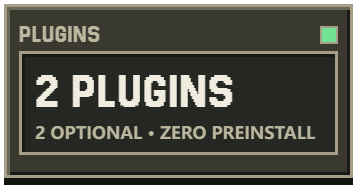
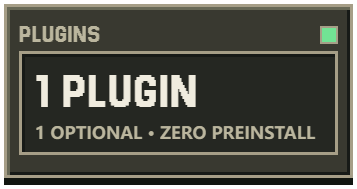
chore(release): 发布 Prismux v0.2.4-RC.1（0.2.4-rc.1）

Changed region(s): [[0.0924, 0.3968, 0.6779, 0.582], [0.0924, 0.6614, 0.1232, 0.7407]]

diff --git a/assets/readme/header.html b/assets/readme/header.html
@@ -70,7 +70,7 @@ h1{margin:0;font-size:124px;line-height:1.12;height:140px;white-space:nowrap}
 </div>
 </section>
 <section class="metrics">
-<div id="stat-version" class="metric frame"><div class="metric-head pixel">VERSION<i class="lamp"></i></div><div class="metric-value"><span class="number pixel">v0.2.3-RC.2</span><span class="metric-label" data-zh="纯本地零遥测 · WIN X64" data-en="ZERO TELEMETRY · WIN X64"></span></div></div>
+<div id="stat-version" class="metric frame"><div class="metric-head pixel">VERSION<i class="lamp"></i></div><div class="metric-value"><span class="number pixel">v0.2.4-RC.1</span><span class="metric-label" data-zh="纯本地零遥测 · WIN X64" data-en="ZERO TELEMETRY · WIN X64"></span></div></div>
 <div id="stat-visual" class="metric frame"><div class="metric-head pixel">VISUAL<i class="lamp"></i></div><div class="metric-value"><span class="number pixel">0 TOKEN</span><span class="metric-label" data-zh="8 分区液态玻璃 · 零模型开销" data-en="8-ZONE LIQUID GLASS · 0 TOKEN"></span></div></div>
 <div id="stat-memory" class="metric frame"><div class="metric-head pixel">MEMORY<i class="lamp"></i></div><div class="metric-value"><span class="number pixel">SQLITE VEC</span><span class="metric-label" data-zh="单文件 WAL + FTS5 + 物理隔离" data-en="SINGLE-FILE WAL + ISOLATION"></span></div></div>
 <div id="stat-plugins" class="metric frame"><div class="metric-head pixel">PLUGINS<i class="lamp"></i></div><div class="metric-value"><span class="number pixel">1 PLUGIN</span><span class="metric-label" data-zh="1 款官方插件 · 默认不预装" data-en="1 OPTIONAL · ZERO PREINSTALL"></span></div></div>

diff --git a/apps/daemon/src/__tests__/app-updater.test.ts b/apps/daemon/src/__tests__/app-updater.test.ts
@@ -707,7 +707,7 @@ test("AppUpdater supports Range resume, 302 redirects (max 6 hops), and customGh
   }
 });
 
-test("PrismuxDaemon integrates AppUpdater with 0.2.3-rc.2 default and exposes HTTP & RPC updater endpoints", async () => {
+test("PrismuxDaemon integrates AppUpdater with 0.2.4-rc.1 default and exposes HTTP & RPC updater endpoints", async () => {
   const dataDir = makeTempDir("prismux-daemon-updater-");
   const daemon = new PrismuxDaemon({
     headless: true,
@@ -724,7 +724,7 @@ test("PrismuxDaemon integrates AppUpdater with 0.2.3-rc.2 default and exposes HT
     });
     assert.equal(statusRes.status, 200);
     const statusJson = (await statusRes.json()) as UpdaterStatusSnapshot;
-    assert.equal(statusJson.currentVersion, "0.2.3-rc.2");
+    assert.equal(statusJson.currentVersion, "0.2.4-rc.1");
     assert.equal(statusJson.policy.routePreference, "auto");
     assert.equal(statusJson.policy.includePrerelease, true);
     assert.equal(statusJson.policy.customGhProxyPrefix, "");

diff --git a/apps/daemon/src/__tests__/daemon-media-and-api.test.ts b/apps/daemon/src/__tests__/daemon-media-and-api.test.ts
@@ -1488,13 +1488,13 @@ export function apply(ctx) {
     currentVersion: string;
     policy: { routePreference: string; includePrerelease: boolean };
   };
-  assert.equal(updaterStatus.currentVersion, "0.2.3-rc.2");
+  assert.equal(updaterStatus.currentVersion, "0.2.4-rc.1");
   assert.equal(updaterStatus.policy.routePreference, "domestic");
   assert.equal(updaterStatus.policy.includePrerelease, false);
 
   const healthCheckRes = await fetch(`${ready.httpUrl}/health`);
   assert.equal(healthCheckRes.status, 200);
-  assert.equal(((await healthCheckRes.json()) as { version: string }).version, "0.2.3-rc.2");
+  assert.equal(((await healthCheckRes.json()) as { version: string }).version, "0.2.4-rc.1");
 });
 
 test("Resilient cold-start: non-blocking T3 connect + /ws normalization + Electron protocol CORS + PRISMUX_CATALOG_PATH resolution", async () => {

diff --git a/scripts/publish-gitee-release.ts b/scripts/publish-gitee-release.ts
@@ -877,7 +877,7 @@ async function main(): Promise<void> {
 
   if (values.help || !values.dir) {
     console.log(
-      'Usage: node scripts/publish-gitee-release.ts --dir <release-dir> [--tag v0.2.3-rc.2] [--notes <md-path>] [--force] [--latest]',
+      'Usage: node scripts/publish-gitee-release.ts --dir <release-dir> [--tag v0.2.4-rc.1] [--notes <md-path>] [--force] [--latest]',
     );
     if (!values.help) {
       process.exitCode = 1;

diff --git a/plugins-official/plugin-qq/src/index.ts b/plugins-official/plugin-qq/src/index.ts
@@ -52,7 +52,7 @@ function readBundledManifestVersion(fallback: string): string {
 
 export const manifest: PluginManifest = {
   id: "qq",
-  version: readBundledManifestVersion("0.2.3-rc.2"),
+  version: readBundledManifestVersion("0.2.4-rc.1"),
   realms: ["daemon", "ui"],
   permissions: [
     "network:outbound",

diff --git a/packages/protocol/src/brand.ts b/packages/protocol/src/brand.ts
@@ -1,4 +1,4 @@
-export const DEFAULT_APP_VERSION = "0.2.3-rc.2" as const;
+export const DEFAULT_APP_VERSION = "0.2.4-rc.1" as const;
 
 export const BRAND = {
   appName: "Prismux",

diff --git a/README.en.md b/README.en.md
@@ -12,7 +12,7 @@
 </picture>
 
 <p>
-  <a href="https://github.com/Fish-under-sea/Prismux/releases/tag/v0.2.3-rc.2"><picture><source media="(prefers-color-scheme: dark)" srcset="assets/readme/stat-version-en-dark.png"><img src="assets/readme/stat-version-en-light.png" alt="VERSION: v0.2.3-RC.2 (Zero Telemetry · Win x64)" width="23%"></picture></a>
+  <a href="https://github.com/Fish-under-sea/Prismux/releases/tag/v0.2.4-rc.1"><picture><source media="(prefers-color-scheme: dark)" srcset="assets/readme/stat-version-en-dark.png"><img src="assets/readme/stat-version-en-light.png" alt="VERSION: v0.2.4-RC.1 (Zero Telemetry · Win x64)" width="23%"></picture></a>
   <a href="#preview"><picture><source media="(prefers-color-scheme: dark)" srcset="assets/readme/stat-visual-en-dark.png"><img src="assets/readme/stat-visual-en-light.png" alt="VISUAL: 0 TOKEN (8-Zone Liquid Glass)" width="23%"></picture></a>
   <a href="#features"><picture><source media="(prefers-color-scheme: dark)" srcset="assets/readme/stat-memory-en-dark.png"><img src="assets/readme/stat-memory-en-light.png" alt="MEMORY: SQLITE VEC (Single-File Isolation)" width="23%"></picture></a>
   <a href="#plugins"><picture><source media="(prefers-color-scheme: dark)" srcset="assets/readme/stat-plugins-en-dark.png"><img src="assets/readme/stat-plugins-en-light.png" alt="PLUGINS: 1 PLUGIN (Zero Preinstall)" width="23%"></picture></a>
@@ -24,23 +24,23 @@
   <img src="https://img.shields.io/badge/React-19-8fd6a0?style=flat-square&amp;logo=react&amp;logoColor=white&amp;labelColor=5a544a" alt="React 19">
   <img src="https://img.shields.io/badge/Node.js-%3E%3D24.12-8fd6a0?style=flat-square&amp;logo=nodedotjs&amp;logoColor=white&amp;labelColor=5a544a" alt="Node.js >= 24.12">
   <img src="https://img.shields.io/badge/License-MIT-8fd6a0?style=flat-square&amp;labelColor=5a544a" alt="License MIT">
-  <img src="https://img.shields.io/badge/Release-v0.2.3--RC.2-f08a5d?style=flat-square&amp;labelColor=5a544a" alt="Release Prismux v0.2.3-RC.2">
+  <img src="https://img.shields.io/badge/Release-v0.2.4--RC.1-f08a5d?style=flat-square&amp;labelColor=5a544a" alt="Release Prismux v0.2.4-RC.1">
 </p>
 
 <p><strong>Prismux · Local-First, Zero-Telemetry 8-Zone Liquid-Glass AI Super Workbench &amp; 24/7 Secretary</strong><br>
-Built on a unified first-party <strong><code>@prismux/*</code> Monorepo (Electron 44 + Effect + TypeScript + React 19)</strong>, Prismux commands native-CLI-identity Claude Code, Codex, Antigravity, cross-drive auto-discovered native <code>dsh</code> (DeepSeek Harness), <code>Pi</code>, and OpenCode from one calm window—uniting <strong>end-to-end Overnight Factory scheduling, live mail liveness probing &amp; real execution receipts</strong>, <strong>30-minute Today Token auto-refresh with concurrent singleflight/SWR quota acceleration</strong>, <strong>Codex→DSH cross-agent delegation with true vendor subagent icons</strong>, <strong>isolated split-pane threads/models with per-pane Overview</strong>, 6 poetic liquid-glass theme substrates, WizTree-style Performance &amp; Storage dashboard with C-drive guardrails, 8× faster Rust telemetry, and single-file SQLite hybrid memory.<br>
-Zero silent telemetry out of the box, pure QR remote pairing (zero cloud accounts), and strictly zero-preinstall plugins—your workspace, your privacy, your rules.</p>
+Built on a unified first-party <strong><code>@prismux/*</code> Monorepo (Electron 44 + Effect + TypeScript + React 19)</strong>, Prismux commands native-CLI-identity Claude Code, Codex, Antigravity, cross-drive auto-discovered native <code>dsh</code> (DeepSeek Harness), <code>Pi</code>, and OpenCode from one calm window—uniting <strong>1:1 DSH NEXT work steps with all-6-agent read-only <code>context_injection</code> / <code>skill_load</code> &amp; per-turn usage popover</strong>, <strong>1:1 AGY Swarm &amp; ACP unified 4-tab right sidebar with live <code>/swarm</code> SSE &amp; Hybrid absorption</strong>, <strong>compact top-right Composer "Invite Collab" multi-agent picker &amp; inline slash-command chips</strong>, <strong>full De-T3 sweep &amp; on-demand prompt slimming (-92% delegated DSH / -58.4% ACP)</strong>, <strong>24-item zero-telemetry, privacy &amp; supply-chain compliance hardening</strong>, 6 poetic liquid-glass theme substrates, WizTree-style Performance &amp; Storage dashboard, and single-file SQLite hybrid memory.<br>
+Zero cold-start outbound calls, zero silent telemetry out of the box, pure QR remote pairing (zero cloud accounts), and strictly zero-preinstall plugins (sole active plugin: <code>qq</code>)—your workspace, your privacy, your rules.</p>
 
 <p>
   <a href="#install"><picture><source media="(prefers-color-scheme: dark)" srcset="assets/readme/key-download-en-dark.png"><img src="assets/readme/key-download-en-light.png" alt="Downloads" height="40"></picture></a>
-  <a href="https://github.com/Fish-under-sea/Prismux/releases/tag/v0.2.3-rc.2"><picture><source media="(prefers-color-scheme: dark)" srcset="assets/readme/key-release-en-dark.png"><img src="assets/readme/key-release-en-light.png" alt="Changelog" height="40"></picture></a>
+  <a href="https://github.com/Fish-under-sea/Prismux/releases/tag/v0.2.4-rc.1"><picture><source media="(prefers-color-scheme: dark)" srcset="assets/readme/key-release-en-dark.png"><img src="assets/readme/key-release-en-light.png" alt="Changelog" height="40"></picture></a>
   <a href="https://github.com/Fish-under-sea/Prismux/issues"><picture><source media="(prefers-color-scheme: dark)" srcset="assets/readme/key-issues-en-dark.png"><img src="assets/readme/key-issues-en-light.png" alt="Issues" height="40"></picture></a>
 </p>
 
 <br>
 
 <p>
-  <img src="assets/readme/hero-demo-v02.gif" width="100%" alt="Prismux v0.2.3-RC.2 8-second live Electron 44 GPU demo: live 8-zone Liquid Glass refraction, Codex running-chibi 7-level reasoning effort slider &amp; Fast/Ultra Fast toggles, 2×2 Orca Split Anything, and 24-hour dynamic sky transition">
+  <img src="assets/readme/hero-demo-v02.gif" width="100%" alt="Prismux v0.2.4-RC.1 8-second live Electron 44 GPU demo: live 8-zone Liquid Glass refraction, Codex running-chibi 7-level reasoning effort slider &amp; Fast/Ultra Fast toggles, 2×2 Orca Split Anything, and 24-hour dynamic sky transition">
   <br>
   <sub><strong>8-Second Live Electron 44 GPU Capture</strong> (<a href="assets/readme/hero-demo-v02.webp">View crisp 1200×750 16 FPS Animated WebP</a>): (1) Open the right wallpaper drawer to adjust <strong>8-Zone Liquid Glass</strong> refraction live over an animated wallpaper; (2) Sweep the Codex <strong><code>dsh-fish</code> running-chibi 7-level effort slider</strong> (<code>Mini → Ultra</code>) and toggle <code>Fast / Ultra Fast</code>; (3) Launch a <strong>2×2 Orca Split Anything</strong> grid (zero interior corner radius, crisp <code>1px</code> dividers) with the <strong>24-hour living sky</strong> shifting smoothly from noon to starry night.</sub>
 </p>
@@ -58,13 +58,14 @@ Zero silent telemetry out of the box, pure QR remote pairing (zero cloud account
 - **Single-File Hybrid Memory, Sidebar Overnight Factory & Zero-Preinstall Plugins**: Store all durable memories in `~/.prismux/data/memory.db` (SQLite WAL + FTS5 + `sqlite-vec`) with transport-level group-chat isolation; access `Overnight Factory & Mail` right from the main sidebar with one-click toggle; install the standalone `qq` plugin strictly on demand (zero preinstall, leak-free teardown) alongside Argon2id + AEAD E2EE sync and concurrent GitHub / Gitee updates.
 
 > [!TIP]
-> **What's New in `Prismux v0.2.3-RC.2`**
-> - **Residual `T3` Badges Replaced with `Ciallo～(∠・ω< )⌒★`**: Replaces remaining legacy `T3` identifiers across tool-call cards and lifecycle views with `Ciallo～(∠・ω< )⌒★` for clean brand consistency.
-> - **True Vendor Brand Icons for Delegated Subagents**: Fixes gray `[AR]` fallback boxes on secondary sidebar delegated subagents by forwarding recognizable `selectedModel.name` for opaque `modelSlug`s, rendering the DeepSeek whale and official vendor logos accurately.
-> - **Overnight Factory Mail Check Fix, Live Liveness Sync & Full End-to-End Execution Loop**: Fixes outbound email check failures across `agent_mail` / `imap_smtp` / `gmail_oauth2`, adds live status probing with automatic "Configured" state refresh on window focus, and ships full end-to-end scheduled polling, task queue, real executor, and email receipts (preserving the hard block on unattended personal AGY).
-> - **30-Min Today Token Auto-Refresh, First-Click Instant Hot-Reload & Concurrent/SWR Quota Acceleration**: Fixes Today Token auto-refresh to a steady 30-minute cadence, ensures the first click on Refresh updates live immediately, and accelerates quota lookups with full concurrency, singleflight deduplication, and SWR background revalidation.
+> **What's New in `Prismux v0.2.4-RC.1`**
+> - **1:1 DSH NEXT Work Steps, All-6-Agent Read-Only `context_injection` &amp; `skill_load` + Per-Turn Usage Popover**: Delivers 1:1 DSH NEXT work-step convergence and detail cards, read-only `context_injection` and `skill_load` (with DSH skill fidelity) across all 6 agents, rich Markdown rendering, per-turn usage popovers (including `Pi` per-turn usage), and dynamic WCAG ≥ 4.5:1 accent contrast adaptation.
+> - **1:1 AGY Swarm &amp; ACP Unified 4-Tab Right Sidebar + Live `/swarm` SSE**: Unifies AGY Swarm and ACP collaboration into a 1:1 4-tab right sidebar with live `/swarm` SSE detection, Hybrid Swarm/ACP absorption, and 100% native Chinese/English i18n.
+> - **Compact Top-Right Composer "Invite Collab" Picker &amp; Inline Slash-Command Visual Chips**: Adds a compact multi-agent / model / count collaboration picker in the top-right Composer corner (governed by the unified subscription risk waiver and strictly 0-Token when idle) alongside inline slash-command visual chips (`[⏱ goal]`, `[🐝 swarm]`).
+> - **Full De-T3 Sweep, On-Demand Prompt Slimming &amp; `fishdock-hook` Retirement**: Purges remaining legacy T3 identifiers across MCP, native binaries, and scripts; slims on-demand prompt injection by **-92%** on delegated DSH and **-58.4%** on ACP; and formally retires `fishdock-hook` (leaving `qq` as the sole active official plugin).
+> - **24-Item Zero-Telemetry, Privacy, Security &amp; Supply-Chain Compliance Hardening**: Enforces 0 cold-start outbound requests (reasoning translation and auto-update checks default OFF), excises `heic-to` / `electron-updater` / `browser-secret` / T3 cloud / Bing translation endpoints, adds pre-extract per-volume `.7z.001..N` SHA-256 verification, and pins all GitHub Actions to 40-char commit SHAs.
 
[2 lines of base64/hex data omitted]
 
 <h2 id="preview"><picture><source media="(prefers-color-scheme: dark)" srcset="assets/readme/section-preview-en-dark.png"><img src="assets/readme/section-preview-en-light.png" alt="PREVIEW · Visual Preview" width="100%"></picture></h2>
 
@@ -160,13 +161,13 @@ The current release is **`Prismux v0.2.3-RC.2`** (tag `v0.2.3-rc.2`), shipping `
 <h2 id="plugins"><picture><source media="(prefers-color-scheme: dark)" srcset="assets/readme/section-plugins-en-dark.png"><img src="assets/readme/section-plugins-en-light.png" alt="PLUGINS · Optional Plugins" width="100%"></picture></h2>
 
 > [!NOTE]
-> **One Active Official Plugin (`qq`) — Strictly Never Preinstalled**: Neither `Prismux-Setup-0.2.3-rc.2-win-x64.exe` nor the unpacked desktop bundle contains any directory from `plugins-official/` (verified at 0 hits across the packaged tree). The active official plugin (`qq`) ships independently as a verified `.wb-plugin` archive (indexed by `prismux-plugins-official.json` and `prismux-plugins-0.2.3-rc.2-SHA256SUMS.txt`) and a script-free npm single package, installing strictly on demand with `ctx.effect()` zero-leak teardown.
+> **One Active Official Plugin (`qq`) — Strictly Never Preinstalled**: Neither `Prismux-Setup-0.2.4-rc.1-win-x64.exe` nor the unpacked desktop bundle contains any directory from `plugins-official/` (verified at 0 hits across the packaged tree). The active official plugin (`qq`) ships independently as a verified `.wb-plugin` archive (indexed by `prismux-plugins-official.json` and `prismux-plugins-0.2.4-rc.1-SHA256SUMS.txt`) and a script-free npm single package, installing strictly on demand with `ctx.effect()` zero-leak teardown.
 >
 > **Retired Plugins Notice**: `pet` (`@prismux/plugin-pet`) and `ssh` (`@prismux/plugin-ssh`) have been retired (replaced by Prismux built-in capabilities), and `fishdock-hook` (`@prismux/plugin-fishdock-hook`) has been retired and removed from the official catalog and release pipeline.
 
 | Plugin ID | Archive (`.wb-plugin`) | npm Package (Unscoped / GitHub Packages) | Realms | Capabilities &amp; Isolation |
 | :--- | :--- | :--- | :--- | :--- |
[2 lines of base64/hex data omitted]
 
 ### Plugin Authoring &amp; Official Documentation
 
@@ -181,31 +182,31 @@ Building a custom Prismux plugin or delegating it to a Coding Agent? Follow the 
 
 | Channel | Best For | Release &amp; Download Details |
 | :--- | :--- | :--- |
-| **GitHub Releases** (Global) | Direct global network / GitHub CLI environments | [Prismux v0.2.3-RC.2 Release](https://github.com/Fish-under-sea/Prismux/releases/tag/v0.2.3-rc.2) · [Direct `Prismux-Setup-0.2.3-rc.2-win-x64.exe`](https://github.com/Fish-under-sea/Prismux/releases/download/v0.2.3-rc.2/Prismux-Setup-0.2.3-rc.2-win-x64.exe) |
-| **Gitee Releases** (Mainland China Mirror) | High-speed direct downloads inside mainland China | [Prismux v0.2.3-RC.2 Release](https://gitee.com/Fish-under-sea/Prismux/releases/tag/v0.2.3-rc.2) (includes `80 MB` split `.7z` volumes, consolidated checksums, and active official plugin archives) |
-| **In-App Update Center** (Recommended) | Concurrent latency probing, weighted split progress &amp; mandatory SHA-256 verification | Open **Settings → About &amp; Updates** (`/settings/about#prismux-updates`) to switch between `Auto / Domestic First / Global First`, browse rich release notes, and install with one click |
+| **GitHub Releases** (Global) | Direct global network / GitHub CLI environments | [Prismux v0.2.4-RC.1 Release](https://github.com/Fish-under-sea/Prismux/releases/tag/v0.2.4-rc.1) · [Direct `Prismux-Setup-0.2.4-rc.1-win-x64.exe`](https://github.com/Fish-under-sea/Prismux/releases/download/v0.2.4-rc.1/Prismux-Setup-0.2.4-rc.1-win-x64.exe) |
+| **Gitee Releases** (Mainland China Mirror) | High-speed direct downloads inside mainland China | [Prismux v0.2.4-RC.1 Release](https://gitee.com/Fish-under-sea/Prismux/releases/tag/v0.2.4-rc.1) (includes `80 MB` split `.7z` volumes, per-volume consolidated checksums, and active official plugin archives) |
+| **In-App Update Center** (Recommended) | Concurrent latency probing, weighted split progress &amp; mandatory pre-extract SHA-256 verification | Open **Settings → About &amp; Updates** (`/settings/about#prismux-updates`) to switch between `Auto / Domestic First / Global First`, browse rich release notes, and install with one click |
 
 ### Platform Downloads &amp; Integrity Verification
 
 | Platform / Release Asset | Filename / Availability | Details &amp; Isolation |
 | :--- | :--- | :--- |
[2 lines of base64/hex data omitted]
 | **macOS (Apple Silicon / Intel)** | `Coming soon (Channel reserved)` | Planned `.dmg` builds will follow the exact same `0-Token` visual separation and `~/.prismux/` isolation guarantees |
 | **Linux (x86_64 / arm64)** | `Coming soon (Channel reserved)` | Planned `.AppImage` / `.deb` packages will support dual-route updates and verified on-demand plugin import |
-| **1 Active Official Plugin Archive** | `prismux-plugin-qq-0.2.3-rc.2.wb-plugin` &amp; `prismux-plugins-official.json` | Deterministic ustar + gzip bundle for on-demand verified import via `/settings/plugins` (`pet`, `ssh` &amp; `fishdock-hook` retired and removed) |
-| **Consolidated Checksums** | `Prismux-0.2.3-rc.2-SHA256SUMS.txt` &amp; `prismux-plugins-0.2.3-rc.2-SHA256SUMS.txt` | Verify manual downloads with `Get-FileHash Prismux-Setup-0.2.3-rc.2-win-x64.exe -Algorithm SHA256` or `7z t` |
+| **1 Active Official Plugin Archive** | `prismux-plugin-qq-0.2.4-rc.1.wb-plugin` &amp; `prismux-plugins-official.json` | Deterministic ustar + gzip bundle for on-demand verified import via `/settings/plugins` (`pet`, `ssh` &amp; `fishdock-hook` retired and removed) |
+| **Consolidated Checksums** | `Prismux-0.2.4-rc.1-SHA256SUMS.txt` &amp; `prismux-plugins-0.2.4-rc.1-SHA256SUMS.txt` | Verify manual downloads with `Get-FileHash Prismux-Setup-0.2.4-rc.1-win-x64.exe -Algorithm SHA256` or `7z t` (Gitee includes per-volume `.7z.001..003` hashes) |
 
 <h2 id="packages"><picture><source media="(prefers-color-scheme: dark)" srcset="assets/readme/section-packages-en-dark.png"><img src="assets/readme/section-packages-en-light.png" alt="PACKAGES · npm &amp; Mirrors" width="100%"></picture></h2>
 
-The active official plugin (`qq`) is also published as a **script-free (`preinstall / install / postinstall` disabled)** standalone npm package bundling its SHA-256-verified `prismux-plugin-qq-0.2.3-rc.2.wb-plugin` archive and an overwrite-safe export CLI (`prismux-plugin-qq`). Inside the Plugin Center, community and official tarballs stream directly over HTTPS with automatic failover between **`registry.npmjs.org` ↔ `registry.npmmirror.com`** and zero local `git` invocation.
+The active official plugin (`qq`) is also published as a **script-free (`preinstall / install / postinstall` disabled)** standalone npm package bundling its SHA-256-verified `prismux-plugin-qq-0.2.4-rc.1.wb-plugin` archive and an overwrite-safe export CLI (`prismux-plugin-qq`). Inside the Plugin Center, community and official tarballs stream directly over HTTPS with automatic failover between **`registry.npmjs.org` ↔ `registry.npmmirror.com`** and zero local `git` invocation.
 
 ```powershell
 # 1. Install and extract a verified .wb-plugin archive from npmjs
-npm install prismux-plugin-qq@0.2.3-rc.2
+npm install prismux-plugin-qq@0.2.4-rc.1
 npx prismux-plugin-qq --out ./plugins-stage
 
 # 2. Use the npmmirror domestic registry in mainland China
-npm install prismux-plugin-qq@0.2.3-rc.2 --registry=https://registry.npmmirror.com
+npm install prismux-plugin-qq@0.2.4-rc.1 --registry=https://registry.npmmirror.com
 npx prismux-plugin-qq --out ./plugins-stage
 ```
 
@@ -247,7 +248,7 @@ prismux/
 ├── THIRD_PARTY_NOTICES.md               # Third-party open-source licenses & historical attributions
 ├── README.md / README.en.md             # Bilingual project homepages (with 8s live GPU demo)
 ├── pnpm-workspace.yaml                  # Unified workspace allowlist (apps/*, packages/*, plugins-official/plugin-*, oxlint-plugin-prismux, scripts)
-├── package.json                         # Root orchestration scripts (0.2.3-rc.2)
+├── package.json                         # Root orchestration scripts (0.2.4-rc.1)
 ├── tsconfig.base.json                   # Strict TS 5.8+ baseline for daemon & core packages (ES2024 + NodeNext)
 ├── tsconfig.core.json / vite.config.ts  # Unified Vite+ (vp) build, lint, format & test config
 ├── assets/
@@ -300,7 +301,7 @@ prismux/
 </details>
 
 <details>
-<summary><strong>Expand: M1–M5 &amp; v0.1.0–v0.2.3-RC.2 Evolution Milestones</strong></summary>
+<summary><strong>Expand: M1–M5 &amp; v0.1.0–v0.2.4-RC.1 Evolution Milestones</strong></summary>
 
 | Milestone | Scope Delivered | Status |
 | :--- | :--- | :--- |
@@ -319,6 +320,7 @@ prismux/
 | **v0.2.2-RC.2** | **Daemon/server/web polling-storm &amp; Windows drive/WMI probe elimination (10m/5m TTL caches + split `PrismuxTelemetryContext` + stabilized callbacks)**, **wallpaper freeze fix &amp; default-OFF opt-in Advanced Wallpaper Engine safety gate (smooth first-boot migration for existing Web/Scene users + async single-flight scans + virtualized grid + streaming-safe `shellCutout`)**, **DSH `[Local Stats]` usage deduplication &amp; multi-core usage scanning**, **8× faster Rust Windows sampling (~4 ms) + Win32 `GetSystemPowerStatus` FFI host hardware/power telemetry + 9-in-1 Electron preload bootstrap**, **Performance &amp; Storage overhaul (6-card footprint overview + symmetric Host &amp; Sampling + WizTree-style Squarified Treemap drilldown &amp; tiered safe cleanup)**, **end-to-end C-drive &amp; memory auto-quota guardrails (256 MiB disk cache cap, SQLite 64 MiB WAL + incremental `auto_vacuum`, dead PTY eviction, stale installer/worktree sweep) &amp; zero-telemetry cleanup** | Complete &amp; Verified |
 | **v0.2.3-RC.1** | **5s auth-storm, Settings freeze &amp; full-stack 15 memory-leak elimination (signed `access_token` exchange + 401/403/426 breaker, decoupled modal close races, router structural sharing, rAF sidebar measurement, BrowserWindow / WebWallGL / recording Blob / 6 Atom collection leak fixes)**, **liquid-glass test-tube context breakdown popover, color-tiered capsules, streamlined Token popover &amp; DSH TPS micro-burst / partial multi-step `decodeMs` fix (with frontend self-healing)**, **Codex→DSH 4-tier alias cross-agent delegation + unified AGY / `subscription_oauth` guardrails (`DelegationSubscriptionGuard`), active AGY composer 40% open-gap flowing RGB rim &amp; secondary sidebar MCP delegated subagent file tree**, **strict split-pane thread/model isolation, per-pane Overview overlay &amp; unified synced right sidebar**, **inline brand-menu update check animation &amp; direct bottom-right update card** | Complete &amp; Verified |
 | **v0.2.3-RC.2** | **Residual `T3` identifiers across tool calls and lifecycle views replaced with `Ciallo～(∠・ω< )⌒★`**, **secondary sidebar delegated subagent gray `[AR]` boxes fixed to render DeepSeek whale and official vendor logos (including `selectedModel.name` fallback for opaque `modelSlug`s)**, **outbound email check failures across `agent_mail` / `imap_smtp` / `gmail_oauth2` resolved with live probing, window-focus auto-"Configured" UX, and full end-to-end Overnight Factory polling, task queue, real executor, and email receipts (hard-blocking unattended personal AGY)**, **30-minute Today Token auto-refresh, first-click instant hot-reload on Refresh, and full concurrency / singleflight / SWR quota acceleration** | Complete &amp; Verified |
+| **v0.2.4-RC.1** | **1:1 DSH NEXT work-step convergence &amp; detail cards + all-6-agent read-only `context_injection` &amp; `skill_load` (DSH skill fidelity) + rich Markdown, per-turn usage popover (`Pi` included) &amp; dynamic WCAG ≥ 4.5:1 accent**, **1:1 AGY Swarm &amp; ACP unified 4-tab right sidebar + live `/swarm` SSE detection + Hybrid Swarm/ACP absorption + 100% native Chinese/English i18n**, **compact top-right Composer "Invite Collab" multi-agent/model/count picker (subscription-waiver governed, 0-Token idle) + inline slash-command visual chips (`[⏱ goal]`, `[🐝 swarm]`)**, **full De-T3 sweep + on-demand prompt slimming (-92% delegated DSH / -58.4% ACP) + `fishdock-hook` retirement (only `qq` active)**, **24-item zero-telemetry, privacy, security &amp; supply-chain compliance hardening (0 cold-start outbound calls, `heic-to` / `electron-updater` / `browser-secret` / T3 cloud / Bing translation excised, pre-extract `.7z.001..N` per-volume SHA-256 verification &amp; GitHub Actions 40-char SHA pinning)** | Complete &amp; Verified |
 
 </details>
 
@@ -351,4 +353,4 @@ prismux/
 
 Prismux core source code and README layout tooling are licensed under the **MIT License** (see [`LICENSE`](LICENSE)); the bundled pixel font `Jersey20-Regular.ttf` is licensed under [SIL Open Font License 1.1](assets/readme/OFL-Jersey20.txt); all third-party libraries and historical open-source attributions are preserved in [`THIRD_PARTY_NOTICES.md`](THIRD_PARTY_NOTICES.md).
 
-<p align="center"><sub>Prismux v0.2.3-RC.2 · Electron 44 + TypeScript + React 19 · Local-First Zero Telemetry · 8-Zone Liquid Glass · Orca Split Anything · 1 Optional Official Plugin</sub></p>
+<p align="center"><sub>Prismux v0.2.4-RC.1 · Electron 44 + TypeScript + React 19 · Local-First Zero Telemetry · 8-Zone Liquid Glass · Orca Split Anything · 1 Optional Official Plugin</sub></p>

diff --git a/README.md b/README.md
@@ -12,7 +12,7 @@
 </picture>
 
 <p>
-  <a href="https://github.com/Fish-under-sea/Prismux/releases/tag/v0.2.3-rc.2"><picture><source media="(prefers-color-scheme: dark)" srcset="assets/readme/stat-version-zh-dark.png"><img src="assets/readme/stat-version-zh-light.png" alt="VERSION：v0.2.3-RC.2（纯本地零遥测 · Win x64）" width="23%"></picture></a>
+  <a href="https://github.com/Fish-under-sea/Prismux/releases/tag/v0.2.4-rc.1"><picture><source media="(prefers-color-scheme: dark)" srcset="assets/readme/stat-version-zh-dark.png"><img src="assets/readme/stat-version-zh-light.png" alt="VERSION：v0.2.4-RC.1（纯本地零遥测 · Win x64）" width="23%"></picture></a>
   <a href="#preview"><picture><source media="(prefers-color-scheme: dark)" srcset="assets/readme/stat-visual-zh-dark.png"><img src="assets/readme/stat-visual-zh-light.png" alt="VISUAL：0 TOKEN（8 分区液态玻璃）" width="23%"></picture></a>
   <a href="#features"><picture><source media="(prefers-color-scheme: dark)" srcset="assets/readme/stat-memory-zh-dark.png"><img src="assets/readme/stat-memory-zh-light.png" alt="MEMORY：SQLITE VEC（单文件物理隔离）" width="23%"></picture></a>
   <a href="#plugins"><picture><source media="(prefers-color-scheme: dark)" srcset="assets/readme/stat-plugins-zh-dark.png"><img src="assets/readme/stat-plugins-zh-light.png" alt="PLUGINS：1 PLUGIN（默认不预装）" width="23%"></picture></a>
@@ -24,23 +24,23 @@
   <img src="https://img.shields.io/badge/React-19-8fd6a0?style=flat-square&amp;logo=react&amp;logoColor=white&amp;labelColor=5a544a" alt="React 19">
   <img src="https://img.shields.io/badge/Node.js-%3E%3D24.12-8fd6a0?style=flat-square&amp;logo=nodedotjs&amp;logoColor=white&amp;labelColor=5a544a" alt="Node.js >= 24.12">
   <img src="https://img.shields.io/badge/License-MIT-8fd6a0?style=flat-square&amp;labelColor=5a544a" alt="License MIT">
-  <img src="https://img.shields.io/badge/Release-v0.2.3--RC.2-f08a5d?style=flat-square&amp;labelColor=5a544a" alt="Release Prismux v0.2.3-RC.2">
+  <img src="https://img.shields.io/badge/Release-v0.2.4--RC.1-f08a5d?style=flat-square&amp;labelColor=5a544a" alt="Release Prismux v0.2.4-RC.1">
 </p>
 
 <p><strong>Prismux · 纯本地零遥测的 8 分区液态玻璃 AI 超级工作台与 24 小时常驻秘书</strong><br>
-基于统一第一方 <strong><code>@prismux/*</code> Monorepo（Electron 44 + Effect + TypeScript + React 19）</strong>，在一个桌面窗口里统一驾驭原生 CLI 身份的 Claude Code、Codex、Antigravity、跨盘自动发现的 <code>dsh</code>（DeepSeek Harness）、<code>Pi</code> 与 OpenCode；集 <strong>全链路夜间工场定时轮询与邮件回执（实时探活与自动就绪状态）</strong>、<strong>30 分钟今日用量自动刷新与并发/SWR 极速配额查询</strong>、<strong>Codex→DSH 跨代理多 Agent 调度与真实厂商子代理图标</strong>、<strong>分屏线程/模型彻底隔离与每屏专属概览</strong>、6 款诗意液态玻璃主题基底、类 WizTree 性能与存储面板 + C 盘自动配额护栏、8× 提速 Rust 硬件监控及单文件 SQLite 混合记忆于一身。<br>
-默认全栈零遥测、纯本地扫码远控（零云端账号绑定）、官方插件严格按需零预装——把效率、质感与隐私控制权完完整整还给你。</p>
+基于统一第一方 <strong><code>@prismux/*</code> Monorepo（Electron 44 + Effect + TypeScript + React 19）</strong>，在一个桌面窗口里统一驾驭原生 CLI 身份的 Claude Code、Codex、Antigravity、跨盘自动发现的 <code>dsh</code>（DeepSeek Harness）、<code>Pi</code> 与 OpenCode；集 <strong>1:1 DSH NEXT 工作步骤与全 6 家只读上下文注入 / 技能加载 + 本轮用量浮层</strong>、<strong>1:1 AGY 蜂群与 ACP 统一四标签右侧栏（实时 <code>/swarm</code> SSE + 混合吸收）</strong>、<strong>输入框右上角「邀请协作」多代理选择器与内联斜杠视觉芯片</strong>、<strong>全栈去 T3 与按需精简提示词（委派 DSH -92% / ACP -58.4%）</strong>、<strong>24 项零遥测隐私与供应链合规加固</strong>、6 款诗意液态玻璃主题基底、类 WizTree 性能与存储面板及单文件 SQLite 混合记忆于一身。<br>
+默认全栈零冷启动外联、零遥测、纯本地扫码远控（零云端账号绑定）、官方插件严格按需零预装（仅保留 <code>qq</code>）——把效率、质感与隐私控制权完完整整还给你。</p>
 
 <p>
   <a href="#install"><picture><source media="(prefers-color-scheme: dark)" srcset="assets/readme/key-download-zh-dark.png"><img src="assets/readme/key-download-zh-light.png" alt="下载 / Releases" height="40"></picture></a>
-  <a href="https://github.com/Fish-under-sea/Prismux/releases/tag/v0.2.3-rc.2"><picture><source media="(prefers-color-scheme: dark)" srcset="assets/readme/key-release-zh-dark.png"><img src="assets/readme/key-release-zh-light.png" alt="更新记录" height="40"></picture></a>
+  <a href="https://github.com/Fish-under-sea/Prismux/releases/tag/v0.2.4-rc.1"><picture><source media="(prefers-color-scheme: dark)" srcset="assets/readme/key-release-zh-dark.png"><img src="assets/readme/key-release-zh-light.png" alt="更新记录" height="40"></picture></a>
   <a href="https://github.com/Fish-under-sea/Prismux/issues"><picture><source media="(prefers-color-scheme: dark)" srcset="assets/readme/key-issues-zh-dark.png"><img src="assets/readme/key-issues-zh-light.png" alt="反馈 / Issues" height="40"></picture></a>
 </p>
 
 <br>
 
 <p>
-  <img src="assets/readme/hero-demo-v02.gif" width="100%" alt="Prismux v0.2.3-RC.2 8 秒实机 GPU 动态演示：8 分区液态玻璃实时折射、Codex 奔跑小人 7 档推理滑条与 Fast/Ultra Fast 切换、2×2 Orca 任意分屏与 24h 动态天穹昼夜渐变">
+  <img src="assets/readme/hero-demo-v02.gif" width="100%" alt="Prismux v0.2.4-RC.1 8 秒实机 GPU 动态演示：8 分区液态玻璃实时折射、Codex 奔跑小人 7 档推理滑条与 Fast/Ultra Fast 切换、2×2 Orca 任意分屏与 24h 动态天穹昼夜渐变">
   <br>
   <sub><strong>8 秒实机 Electron 44 GPU 动态实录</strong>（<a href="assets/readme/hero-demo-v02.webp">查看 1200×750 16 FPS 高清 Animated WebP</a>）：① 右侧壁纸抽屉实时调节 <strong>8 分区液态玻璃</strong> 折射通透度；② Codex 模型选择器滑动 <strong><code>dsh-fish</code> 奔跑小人 7 档推理强度条</strong>（<code>Mini → Ultra</code>）并秒切 <code>Fast / Ultra Fast</code>；③ 一键展开 <strong>2×2 Orca 全要素任意分屏</strong>（内部零圆角、<code>1 px</code> 细线）与 <strong>24 小时动态天穹</strong> 昼夜平滑演化。</sub>
 </p>
@@ -58,13 +58,14 @@
 - **单文件混合记忆、夜间全自动工场与零预装插件生态**：全部记忆收敛于单文件 `~/.prismux/data/memory.db`（SQLite WAL + FTS5 + `sqlite-vec`）并由传输层物理隔离群聊作用域；`夜间工场与邮箱` 置入左侧主导航一键开关；官方仅维护 `qq` 一款按需独立插件（默认零预装，卸载零残留），配套 Argon2id + AEAD 端到端加密同步与 GitHub / Gitee 双源测速自动更新。
 
 > [!TIP]
-> **`Prismux v0.2.3-RC.2` 核心升级亮点**
-> - **残留 `T3` 徽标全面替换为 `Ciallo～(∠・ω< )⌒★`**：彻底清除工具调用卡片与生命周期视图中的历史 `T3` 标识，全面替换为 `Ciallo～(∠・ω< )⌒★` 专属颜文字标识，保持品牌洁净一致。
-> - **侧栏二级委派子代理真实厂商图标修复**：根治侧栏二级委派子 Agent 显示灰框 `[AR]` 缺陷，透传可识别的 `selectedModel.name` 兜底不透明 `modelSlug`，准确渲染 DeepSeek 鲸鱼及各主流厂商真实品牌图标。
-> - **夜间工场邮件发信根治、实时探活与端到端闭环实装**：根治 `agent_mail` / `imap_smtp` / `gmail_oauth2` 邮件发信检查失败，新增实时探活与切回窗口自动显示「已配置」交互优化；实装夜间工场端到端定时轮询、任务队列、真实执行器与完工邮件回执（严格保留个人 AGY 无人值守永久硬拦截）。
-> - **今日 Token 30 分钟自动刷新、首击即刻热更新与并发/SWR 配额提速**：左下角今日 Token 用量自动刷新固定为 30 分钟，修复点击「刷新」按钮首次点击即刻热更新；配额查询全面并发化并引入 singleflight 去重、SWR 后台重验热更新衔接与原子化渐进发布。
+> **`Prismux v0.2.4-RC.1` 核心升级亮点**
+> - **1:1 DSH NEXT 工作步骤、全 6 家只读上下文注入与技能加载 + 本轮用量浮层**：全面对标 DSH NEXT 工作步骤收敛与磨砂详情卡，打通全 6 家 Agent 的只读 `context_injection` 与 `skill_load`（DSH 技能保真），新增富文本 Markdown 呈现、每轮用量统计浮层（含 `Pi` 每轮用量）以及动态 WCAG ≥ 4.5:1 主题强调色自适应。
+> - **1:1 AGY 蜂群与 ACP 统一四标签右侧栏 + 实时 `/swarm` SSE**：打造 1:1 AGY Swarm 与 ACP 统一四标签辅助右侧栏，支持实时 `/swarm` SSE 流式侦测、Hybrid Swarm / ACP 混合协作吸收与 100% 原生中英双语 i18n。
+> - **输入框右上角紧凑「邀请协作」选择器与内联斜杠命令视觉芯片**：在输入框右上角新增多 Agent / 模型 / 数量紧凑选择器（受统一订阅风控免责门禁管控，闲置保持 0 Token），并新增内联斜杠命令视觉芯片（如 `[⏱ goal]`、`[🐝 swarm]`）。
+> - **全栈去 T3 彻底清扫、按需提示词大幅瘦身与 `fishdock-hook` 正式退役**：全面清除 MCP / 原生组件 / 脚本中的历史 T3 残留；重构按需精简提示词注入（委派 DSH 减少 **92%**，ACP 减少 **58.4%**）；彻底退役并移除 `fishdock-hook`，官方活跃独立插件收敛为仅保留 `qq`。
+> - **24 项零遥测、隐私安全与供应链合规全面加固**：冷启动 0 外联请求（思考翻译默认关闭、自动检查更新默认关闭）；彻底剥离 `heic-to` / `electron-updater` / `browser-secret` / T3 云端依赖 / Bing 翻译端点；落地解压前 `.7z.001..N` 逐卷 SHA-256 强制校验与 GitHub Actions 40 位 Commit SHA 钉扎。
 
[2 lines of base64/hex data omitted]
 
 <h2 id="preview"><picture><source media="(prefers-color-scheme: dark)" srcset="assets/readme/section-preview-zh-dark.png"><img src="assets/readme/section-preview-zh-light.png" alt="PREVIEW · 界面实景" width="100%"></picture></h2>
 
@@ -160,13 +161,13 @@
 <h2 id="plugins"><picture><source media="(prefers-color-scheme: dark)" srcset="assets/readme/section-plugins-zh-dark.png"><img src="assets/readme/section-plugins-zh-light.png" alt="PLUGINS · 官方独立插件" width="100%"></picture></h2>
 
 > [!NOTE]
-> **官方插件严格默认零预装**：`Prismux-Setup-0.2.3-rc.2-win-x64.exe` 安装包及解压态目录**绝不包含**任何 `plugins-official/` 插件（发布前通过全目录 0 命中扫描校验）。以下 1 款官方独立插件（`qq`）以独立 `.wb-plugin` 归档（配套 `prismux-plugins-official.json` 与 `prismux-plugins-0.2.3-rc.2-SHA256SUMS.txt`）及无脚本 npm 单包分发，按需安装并支持 `ctx.effect()` 零残留卸载。
+> **官方插件严格默认零预装**：`Prismux-Setup-0.2.4-rc.1-win-x64.exe` 安装包及解压态目录**绝不包含**任何 `plugins-official/` 插件（发布前通过全目录 0 命中扫描校验）。以下 1 款官方独立插件（`qq`）以独立 `.wb-plugin` 归档（配套 `prismux-plugins-official.json` 与 `prismux-plugins-0.2.4-rc.1-SHA256SUMS.txt`）及无脚本 npm 单包分发，按需安装并支持 `ctx.effect()` 零残留卸载。
 >
 > **已停用插件说明**：原 `pet`（`@prismux/plugin-pet`，桌宠联动）与 `ssh`（`@prismux/plugin-ssh`，SSH 远程主机终端）已停用（已被 Prismux 内置功能取代）；原 `fishdock-hook`（`@prismux/plugin-fishdock-hook`，FISH-Dock 灵动岛桥接）已停用并彻底移出官方插件目录与发布链路。
 
 | 插件 ID | 独立归档包（`.wb-plugin`） | npm 包名（无作用域 / GitHub Packages） | 运行域（`realms`） | 核心能力与隔离边界 |
 | :--- | :--- | :--- | :--- | :--- |
[2 lines of base64/hex data omitted]
 
 ### 插件创作与官方文档
 
@@ -181,31 +182,31 @@
 
 | 分发渠道 | 适用场景 | 入口与下载说明 |
 | :--- | :--- | :--- |
-| **GitHub Releases**（国际直连） | 海外网络 / GitHub CLI 环境 | [Prismux v0.2.3-RC.2 发布页](https://github.com/Fish-under-sea/Prismux/releases/tag/v0.2.3-rc.2) · [直下 `Prismux-Setup-0.2.3-rc.2-win-x64.exe`](https://github.com/Fish-under-sea/Prismux/releases/download/v0.2.3-rc.2/Prismux-Setup-0.2.3-rc.2-win-x64.exe) |
-| **Gitee Releases**（国内镜像） | 中国大陆直连加速下载 | [Prismux v0.2.3-RC.2 发布页](https://gitee.com/Fish-under-sea/Prismux/releases/tag/v0.2.3-rc.2)（含 `80 MB` 7z 无损分卷、分卷汇总校验与全部活跃官方插件归档） |
-| **软件内更新中心**（推荐） | 自动测速 GitHub / Gitee、分卷实时加权下载与 SHA-256 强制校验 | 在工作台打开 **设置 → 关于与更新**（`/settings/about#prismux-updates`），在 `智能测速 / 国内优先 / 国际优先` 间秒切，查看完整富文本更新日志并一键安装重启 |
+| **GitHub Releases**（国际直连） | 海外网络 / GitHub CLI 环境 | [Prismux v0.2.4-RC.1 发布页](https://github.com/Fish-under-sea/Prismux/releases/tag/v0.2.4-rc.1) · [直下 `Prismux-Setup-0.2.4-rc.1-win-x64.exe`](https://github.com/Fish-under-sea/Prismux/releases/download/v0.2.4-rc.1/Prismux-Setup-0.2.4-rc.1-win-x64.exe) |
+| **Gitee Releases**（国内镜像） | 中国大陆直连加速下载 | [Prismux v0.2.4-RC.1 发布页](https://gitee.com/Fish-under-sea/Prismux/releases/tag/v0.2.4-rc.1)（含 `80 MB` 7z 无损分卷、逐卷 SHA-256 汇总校验与全部活跃官方插件归档） |
+| **软件内更新中心**（推荐） | 自动测速 GitHub / Gitee、分卷实时加权下载与解压前逐卷 SHA-256 强制校验 | 在工作台打开 **设置 → 关于与更新**（`/settings/about#prismux-updates`），在 `智能测速 / 国内优先 / 国际优先` 间秒切，查看完整富文本更新日志并一键安装重启 |
 
 ### 平台下载矩阵与完整性校验
 
 | 平台 / 发行资产 | 文件名 / 状态 | 说明与隔离策略 |
 | :--- | :--- | :--- |
[2 lines of base64/hex data omitted]
 | **macOS（Apple Silicon / Intel）** | `暂未发布（已预留通道）` | 后续版本将提供 `.dmg` 安装镜像，遵循同一套 `0-Token` 视觉与 `~/.prismux/` 隔离规范 |
 | **Linux（x86_64 / arm64）** | `暂未发布（已预留通道）` | 后续版本将提供 `.AppImage` / `.deb` 发行包，同样支持双源更新与独立插件验签导入 |
-| **1 款官方独立插件包** | `prismux-plugin-qq-0.2.3-rc.2.wb-plugin` 与 `prismux-plugins-official.json` | 确定性 ustar + gzip 归档，下载后在 **设置 → 插件中心**（`/settings/plugins`）按需验签导入（`pet` / `ssh` / `fishdock-hook` 已停用并移除） |
-| **分离式合并校验清单** | `Prismux-0.2.3-rc.2-SHA256SUMS.txt` 与 `prismux-plugins-0.2.3-rc.2-SHA256SUMS.txt` | 手动下载后可通过 `Get-FileHash Prismux-Setup-0.2.3-rc.2-win-x64.exe -Algorithm SHA256` 或 `7z t` 核对完整性 |
+| **1 款官方独立插件包** | `prismux-plugin-qq-0.2.4-rc.1.wb-plugin` 与 `prismux-plugins-official.json` | 确定性 ustar + gzip 归档，下载后在 **设置 → 插件中心**（`/settings/plugins`）按需验签导入（`pet` / `ssh` / `fishdock-hook` 已停用并移除） |
+| **分离式合并校验清单** | `Prismux-0.2.4-rc.1-SHA256SUMS.txt` 与 `prismux-plugins-0.2.4-rc.1-SHA256SUMS.txt` | 手动下载后可通过 `Get-FileHash Prismux-Setup-0.2.4-rc.1-win-x64.exe -Algorithm SHA256` 或 `7z t` 核对完整性（Gitee 渠道另附逐卷 `.7z.001..003` 校验值） |
 
 <h2 id="packages"><picture><source media="(prefers-color-scheme: dark)" srcset="assets/readme/section-packages-zh-dark.png"><img src="assets/readme/section-packages-zh-light.png" alt="PACKAGES · npm 与国内镜像" width="100%"></picture></h2>
 
-官方独立插件（`qq`）额外发布为**零 `preinstall / install / postinstall` 脚本**的独立 npm 单包，内置通过 SHA-256 核验的 `prismux-plugin-qq-0.2.3-rc.2.wb-plugin` 归档与防覆盖导出命令（`prismux-plugin-qq`）；软件内插件市场支持在 **`registry.npmjs.org` ↔ `registry.npmmirror.com`** 间免本机 Git 纯流式拉取与自动故障回退。
+官方独立插件（`qq`）额外发布为**零 `preinstall / install / postinstall` 脚本**的独立 npm 单包，内置通过 SHA-256 核验的 `prismux-plugin-qq-0.2.4-rc.1.wb-plugin` 归档与防覆盖导出命令（`prismux-plugin-qq`）；软件内插件市场支持在 **`registry.npmjs.org` ↔ `registry.npmmirror.com`** 间免本机 Git 纯流式拉取与自动故障回退。
 
 ```powershell
 # 1. 从 npm 官方源安装并提取 .wb-plugin 归档（内置 SHA-256 核对，目标文件已存在时不覆盖）
-npm install prismux-plugin-qq@0.2.3-rc.2
+npm install prismux-plugin-qq@0.2.4-rc.1
 npx prismux-plugin-qq --out ./plugins-stage
 
 # 2. 中国大陆网络使用 npmmirror 国内镜像加速安装
-npm install prismux-plugin-qq@0.2.3-rc.2 --registry=https://registry.npmmirror.com
+npm install prismux-plugin-qq@0.2.4-rc.1 --registry=https://registry.npmmirror.com
 npx prismux-plugin-qq --out ./plugins-stage
 ```
 
@@ -247,7 +248,7 @@ prismux/
 ├── THIRD_PARTY_NOTICES.md               # 第三方开源许可与历史归属声明
 ├── README.md / README.en.md             # 中英双语项目主页（含 8 秒 GPU 动态演示）
 ├── pnpm-workspace.yaml                  # 统一 Workspace 白名单（apps/*、packages/*、plugins-official/plugin-*、oxlint-plugin-prismux、scripts）
-├── package.json                         # 根任务编排脚本（0.2.3-rc.2）
+├── package.json                         # 根任务编排脚本（0.2.4-rc.1）
 ├── tsconfig.base.json                   # Prismux 守护进程与核心自研包 TS 严格基线（ES2024 + NodeNext）
 ├── tsconfig.core.json / vite.config.ts  # 桌面端/服务端/前端/Effect 核心包统一构建、Lint 与测试配置
 ├── assets/
@@ -300,7 +301,7 @@ prismux/
 </details>
 
 <details>
-<summary><strong>展开查看：M1–M5 与 v0.1.0 ~ v0.2.3-RC.2 演进里程碑</strong></summary>
+<summary><strong>展开查看：M1–M5 与 v0.1.0 ~ v0.2.4-RC.1 演进里程碑</strong></summary>
 
 | 里程碑 | 核心交付内容 | 验收状态 |
 | :--- | :--- | :--- |
@@ -319,6 +320,7 @@ prismux/
 | **v0.2.2-RC.2** | **消除守护进程/服务端/前端轮询风暴与 Windows 盘符/WMI 同步探测卡顿（10m/5m TTL 缓存 + 拆分 `PrismuxTelemetryContext` + 稳定回调引用）**、**壁纸卡顿根治与默认关闭的「高级壁纸渲染引擎」安全门禁（旧版活跃 Web/Scene 首启平滑迁移 + 异步单飞扫描 + 虚拟化网格 + `shellCutout` 防抖）**、**DSH `[本地统计]` 用量去重与多核用量扫描**、**Rust `native/resource-monitor` Windows 8× 采样提速（~4 ms）+ Win32 `GetSystemPowerStatus` FFI 真实硬件/电源遥测 + Electron 9 合 1 preload 引导**、**「性能与存储」面板全面重构（6 格足迹总览 + 对称主机/采集 + 类 WizTree Squarified Treemap 存储下钻与安全分级清理）**、**全链路 C 盘与内存防膨胀自动配额护栏（256 MiB 磁盘缓存、SQLite 64 MiB WAL + 增量 `auto_vacuum`、PTY 死会话回收、过期安装包/worktree 清扫）及零遥测彻底清理** | 已完成并通过全量验收 |
 | **v0.2.3-RC.1** | **根治 5s 鉴权风暴、设置页卡死与全栈 15 处内存泄漏（签名 `access_token` 换取 + 401/403/426 熔断、解除嵌套弹窗关闭竞态、路由结构共享、去 `flushSync` 测量、BrowserWindow / WebWallGL / 录屏 Blob / 6 类 Atom 集合泄漏治理）**、**液态玻璃试管上下文拆解面板、分色胶囊、Token 浮层精简与 DSH TPS 缓冲微突发/多步局部 `decodeMs` 统计异常根治（含前端历史异常自愈）**、**Codex→DSH 四级别名跨代理多 Agent 调度 + 统一 AGY / `subscription_oauth` 订阅风控护栏（`DelegationSubscriptionGuard`）、激活态 AGY 输入框 40% 开口流动 RGB 光带与侧栏二级 MCP 委派子代理文件树**、**分屏线程与模型彻底隔离、每屏专属「概览」浮层与分屏统一右侧栏跟随联动**、**侧栏菜单原位内联检查更新动效与发现新版本直出右下角更新提醒卡片** | 已完成并通过全量验收 |
 | **v0.2.3-RC.2** | **工具调用与生命周期残留 `T3` 标识全面替换为 `Ciallo～(∠・ω< )⌒★`**、**侧栏二级委派子 Agent 灰框 `[AR]` 修复为 DeepSeek 鲸鱼及各厂商真实品牌图标（含 `selectedModel.name` 兜底不透明 `modelSlug`）**、**根治 `agent_mail` / `imap_smtp` / `gmail_oauth2` 邮件发信检查失败、新增实时探活与切回窗口自动显示「已配置」交互优化，并实装夜间工场端到端定时轮询、任务队列、真实执行器与邮件回执（保留个人 AGY 无人值守硬拦截）**、**左下角今日 Token 自动刷新固定为 30 分钟、修复点击「刷新」按钮首次点击即刻热更新，并全面并发化 / singleflight / SWR 提速配额查询** | 已完成并通过全量验收 |
+| **v0.2.4-RC.1** | **1:1 DSH NEXT 工作步骤收敛与磨砂详情卡 + 全 6 家只读 `context_injection` / `skill_load`（DSH 技能保真）+ 富文本 Markdown、本轮用量浮层与动态 WCAG ≥ 4.5:1 强调色**、**1:1 AGY 蜂群与 ACP 统一四标签右侧栏 + 实时 `/swarm` SSE 流式侦测 + Hybrid Swarm/ACP 混合吸收 + 100% 原生中英 i18n**、**输入框右上角紧凑「邀请协作」多代理/模型/数量选择器（受统一订阅免责管控、闲置 0 Token）+ 内联斜杠视觉芯片（`[⏱ goal]`、`[🐝 swarm]`）**、**全栈去 T3 彻底清扫 + 按需精简提示词（委派 DSH -92% / ACP -58.4%）+ `fishdock-hook` 正式退役（仅保留 `qq`）**、**24 项零遥测、隐私安全与供应链合规加固（冷启动 0 外联、剥离 `heic-to` / `electron-updater` / `browser-secret` / T3 云端 / Bing 翻译、解压前 `.7z.001..N` 逐卷 SHA-256 强制校验与 GitHub Actions 40 位 SHA 钉扎）** | 已完成并通过全量验收 |
 
 </details>
 
@@ -351,4 +353,4 @@ prismux/
 
 Prismux 本仓核心代码与排版工具链遵循 **MIT License**（见仓库根 [`LICENSE`](LICENSE)）；随视觉资产分发的像素字体 `Jersey20-Regular.ttf` 遵循 [SIL Open Font License 1.1](assets/readme/OFL-Jersey20.txt)；所有开源基础与参考组件均在 [`THIRD_PARTY_NOTICES.md`](THIRD_PARTY_NOTICES.md) 中严格保留各自原始许可证与版权归属声明。
 
-<p align="center"><sub>Prismux v0.2.3-RC.2 · Electron 44 + TypeScript + React 19 · 纯本地零遥测 · 8 分区液态玻璃 · Orca 任意分屏 · 1 款按需官方插件</sub></p>
+<p align="center"><sub>Prismux v0.2.4-RC.1 · Electron 44 + TypeScript + React 19 · 纯本地零遥测 · 8 分区液态玻璃 · Orca 任意分屏 · 1 款按需官方插件</sub></p>

diff --git a/docs/plugins/plugin-development-guide.md b/docs/plugins/plugin-development-guide.md
@@ -42,7 +42,7 @@ prismux-plugin-example/
 | 字段 | 要求 | 说明 |
 | :--- | :--- | :--- |
 | `name` | 社区插件使用 `prismux-plugin-<name>` | 官方插件保留 `@prismux/plugin-<id>` 作用域；第三方社区插件统一使用 `prismux-plugin-` 前缀 |
-| `version` | 严格 SemVer 2.0 | 须与 `plugin.manifest.json` 中的 `version` 保持一致（如 `0.1.0`、`0.2.3-rc.2`） |
+| `version` | 严格 SemVer 2.0 | 须与 `plugin.manifest.json` 中的 `version` 保持一致（如 `0.1.0`、`0.2.4-rc.1`） |
 | `type` | 必须为 `"module"` | 守护进程通过原生 ESM `import()` 动态加载插件入口 |
 | `engines.prismux` | **必填顶层字段** | 宿主内核直接解析顶层 `engines.prismux` SemVer 范围，**绝不回退读取 `peerDependencies`** |
 | `exports` / `main` | 指向包内编译后 JS 文件 | 守护进程加载顺序：`exports["./daemon"]` → `exports["."]`（字符串或 `{ import }`）→ `main`，禁止越界跳出插件目录 |
@@ -50,7 +50,7 @@ prismux-plugin-example/
 | `keywords` | 推荐包含 `"prismux-plugin"` | 便于社区检索与 GitHub Topic `prismux-plugin` 对齐 |
 
 > [!IMPORTANT]
-> **关于 `engines.prismux` 与预发布版本兼容**：Prismux 当前处于 `0.2.3-rc.*` 预发布阶段。依据 `@prismux/cordis-kernel` 的 SemVer 引擎规则，当范围下界包含预发布标记（如 `>=0.1.0-0 <2.0.0`）时，可同时匹配 `0.2.3-rc.2` 与后续 `0.2.x` / `1.x` 正式版；若只写 `^0.1.0`，则不会匹配 `0.2.3-rc.*` 预发布宿主。建议统一声明：
+> **关于 `engines.prismux` 与预发布版本兼容**：Prismux 当前处于 `0.2.4-rc.*` 预发布阶段。依据 `@prismux/cordis-kernel` 的 SemVer 引擎规则，当范围下界包含预发布标记（如 `>=0.1.0-0 <2.0.0`）时，可同时匹配 `0.2.4-rc.1` 与后续 `0.2.x` / `1.x` 正式版；若只写 `^0.1.0`，则不会匹配 `0.2.4-rc.*` 预发布宿主。建议统一声明：
 >
 > ```json
 > "engines": {

diff --git a/assets/readme/MAINTAINING.md b/assets/readme/MAINTAINING.md
@@ -4,7 +4,7 @@
 
 ## 渲染命令
 
-在仓库根目录执行（默认从根 `package.json` 自动读取当前版本号，如 `0.2.3-rc.2`）：
+在仓库根目录执行（默认从根 `package.json` 自动读取当前版本号，如 `0.2.4-rc.1`）：
 
 ```powershell
 node scripts/render-readme.mjs
